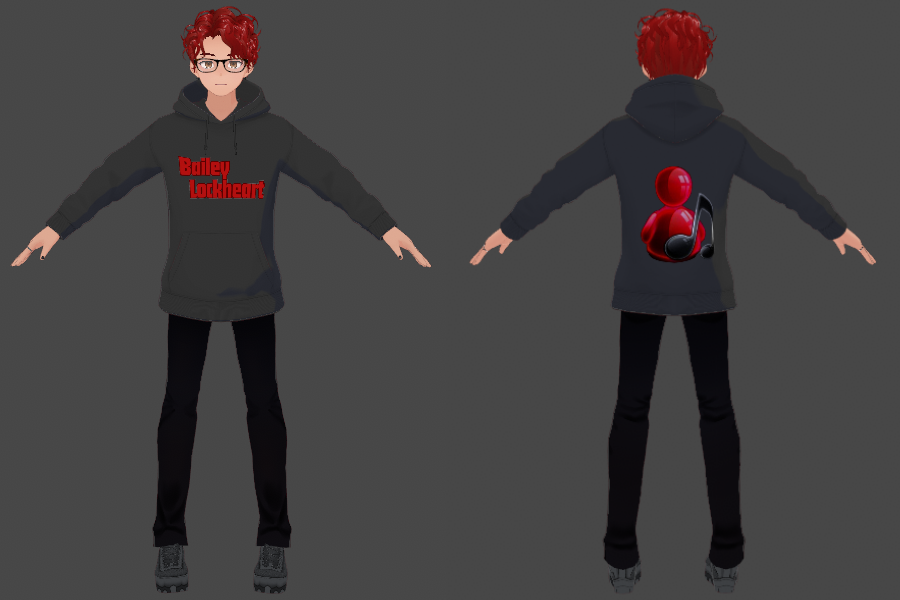
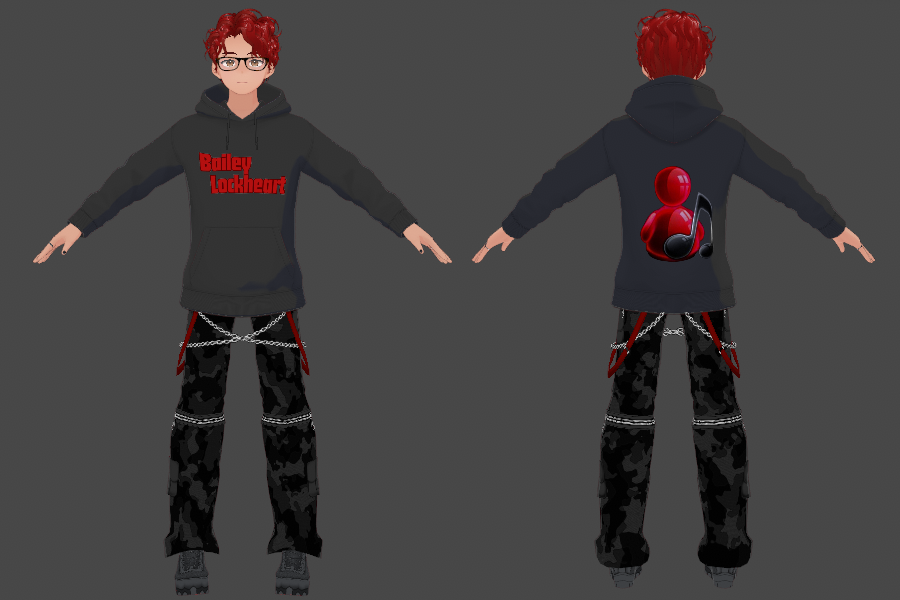
Update to model :3

diff --git a/content/info.html b/content/info.html
@@ -44,11 +44,11 @@ name: info
         <p>Made in VRoid Studio! I edit textures in <a href="https://medibangpaint.com/en/" target="_blank">Medibang Paint</a>!</p>
         <ul>
             <li>Surcen  - <a href="https://www.etsy.com/listing/1467132330/vroid-curly-hair-preset" target="_blank">Vroid Curly hair preset</a></li>
+            <li>404DOTEXE - <a href="https://404dotexe.booth.pm/items/5042273" target="_blank">Customizable Cargo Pants</a></li>
             <li>Syuka K - <a href="https://syuka-k.booth.pm/items/3532764" target="_blank">Marble Glasses [VRoid Texture]</a></li>
             <li>Saesin - <a href="https://saesin.booth.pm/items/3554856" target="_blank">Nail Texture Pack</a></li>
             <li>JesskeCreations - <a href="https://jesskecreations.booth.pm/items/5707222" target="_blank">VRoid Dragon Earrings</a></li>
             <li>KaitoSai - <a href="https://kaitosai.booth.pm/items/3913906" target="_blank">PRIDE Flags 🏳🌈 as Pins and Prints</a></li>
-            <li>ArgamaWitch - <a href="https://argamawitch.booth.pm/items/2112484" target="_blank">Cat Boy Vroid Model (pants texture)</a></li>
         </ul>
     </div>
 </div>

diff --git a/public/info.html b/public/info.html
@@ -135,11 +135,11 @@
         <p>Made in VRoid Studio! I edit textures in <a href="https://medibangpaint.com/en/" target="_blank">Medibang Paint</a>!</p>
         <ul>
             <li>Surcen  - <a href="https://www.etsy.com/listing/1467132330/vroid-curly-hair-preset" target="_blank">Vroid Curly hair preset</a></li>
+            <li>404DOTEXE - <a href="https://404dotexe.booth.pm/items/5042273" target="_blank">Customizable Cargo Pants</a></li>
             <li>Syuka K - <a href="https://syuka-k.booth.pm/items/3532764" target="_blank">Marble Glasses [VRoid Texture]</a></li>
             <li>Saesin - <a href="https://saesin.booth.pm/items/3554856" target="_blank">Nail Texture Pack</a></li>
             <li>JesskeCreations - <a href="https://jesskecreations.booth.pm/items/5707222" target="_blank">VRoid Dragon Earrings</a></li>
             <li>KaitoSai - <a href="https://kaitosai.booth.pm/items/3913906" target="_blank">PRIDE Flags 🏳🌈 as Pins and Prints</a></li>
-            <li>ArgamaWitch - <a href="https://argamawitch.booth.pm/items/2112484" target="_blank">Cat Boy Vroid Model (pants texture)</a></li>
         </ul>
     </div>
 </div>
